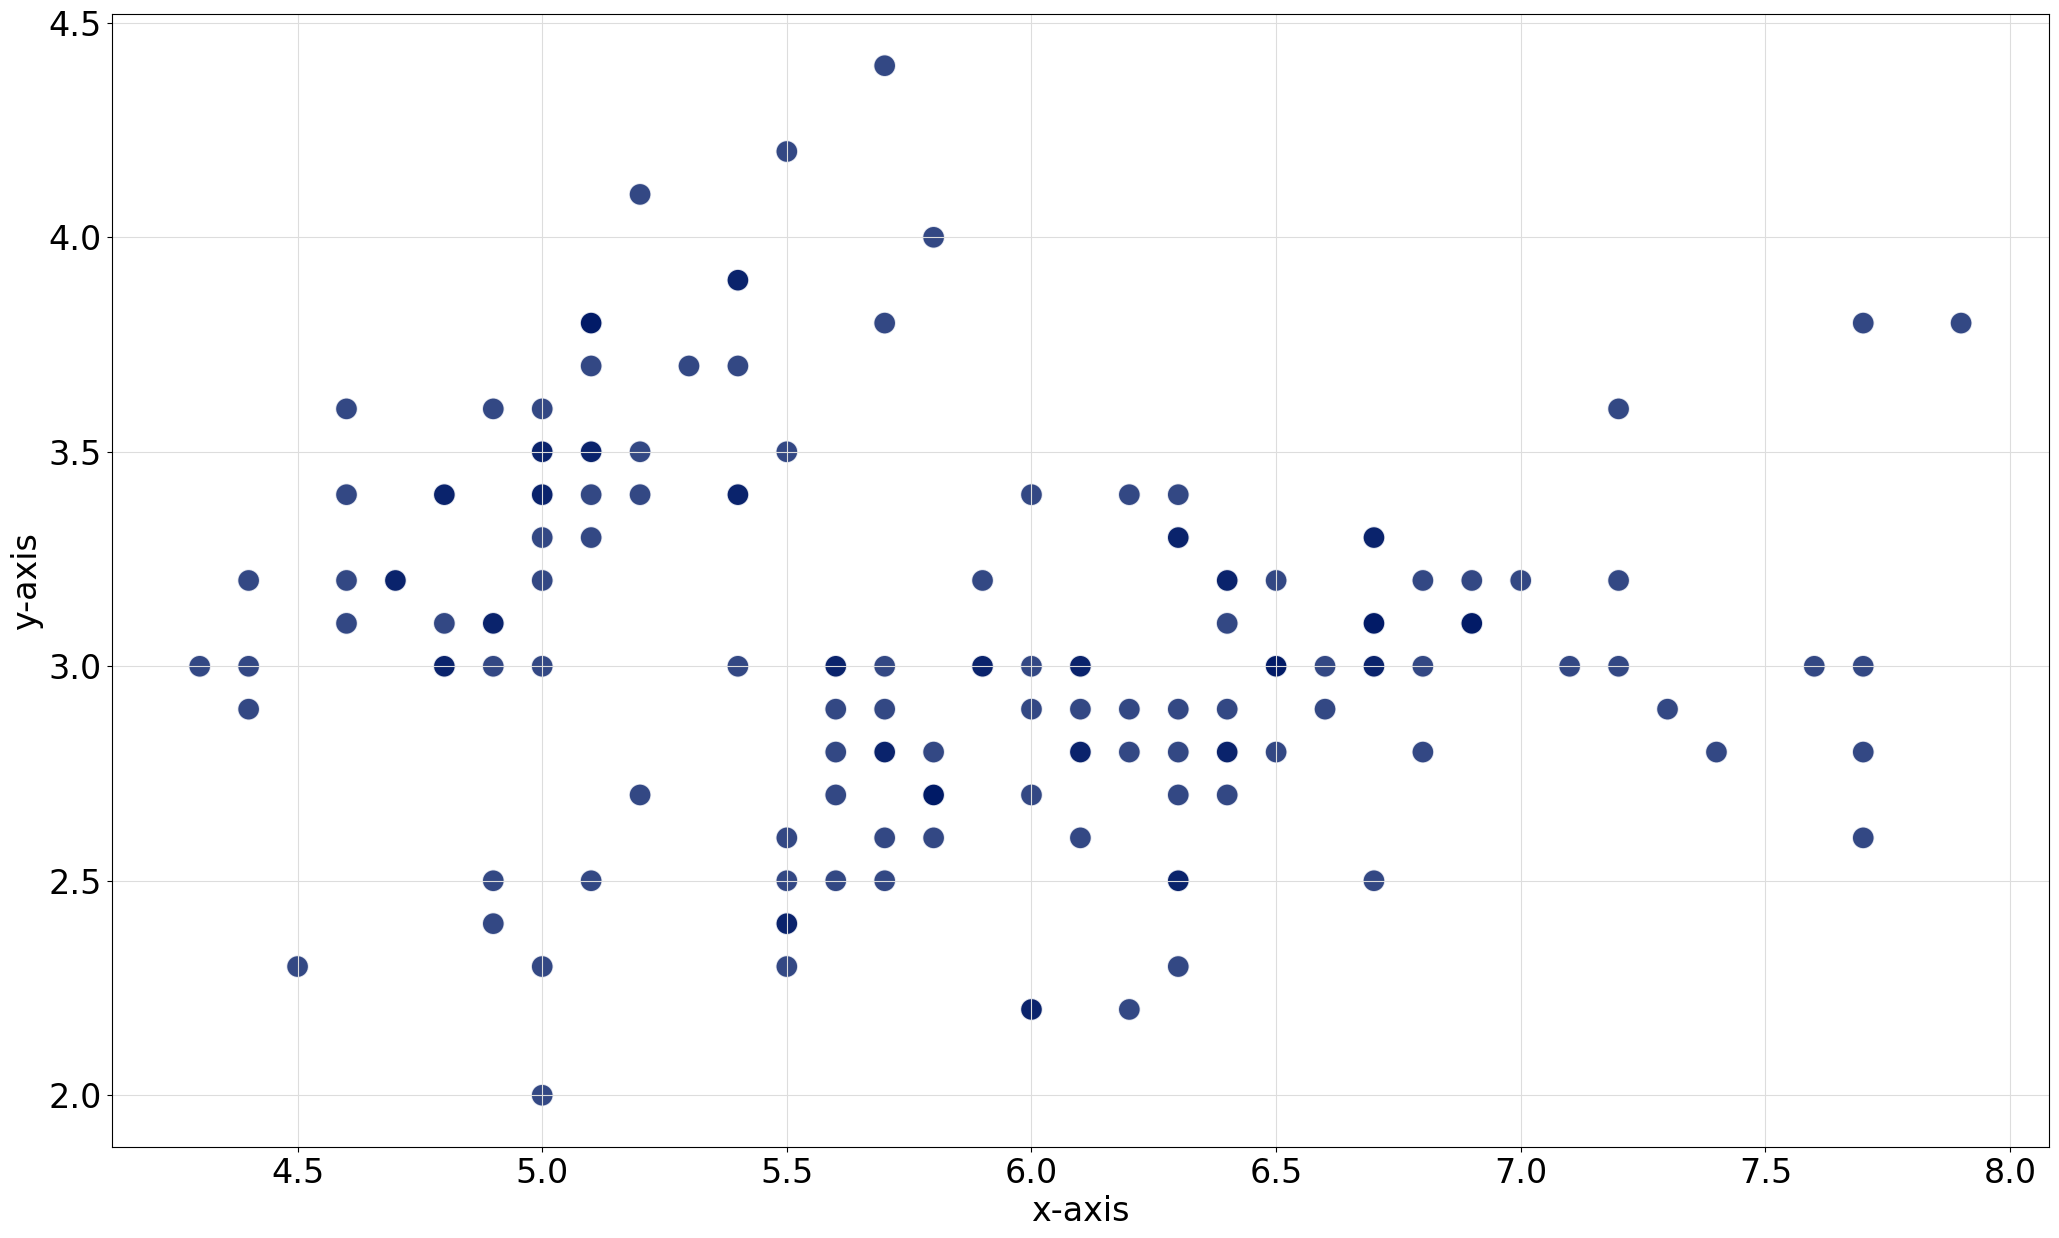
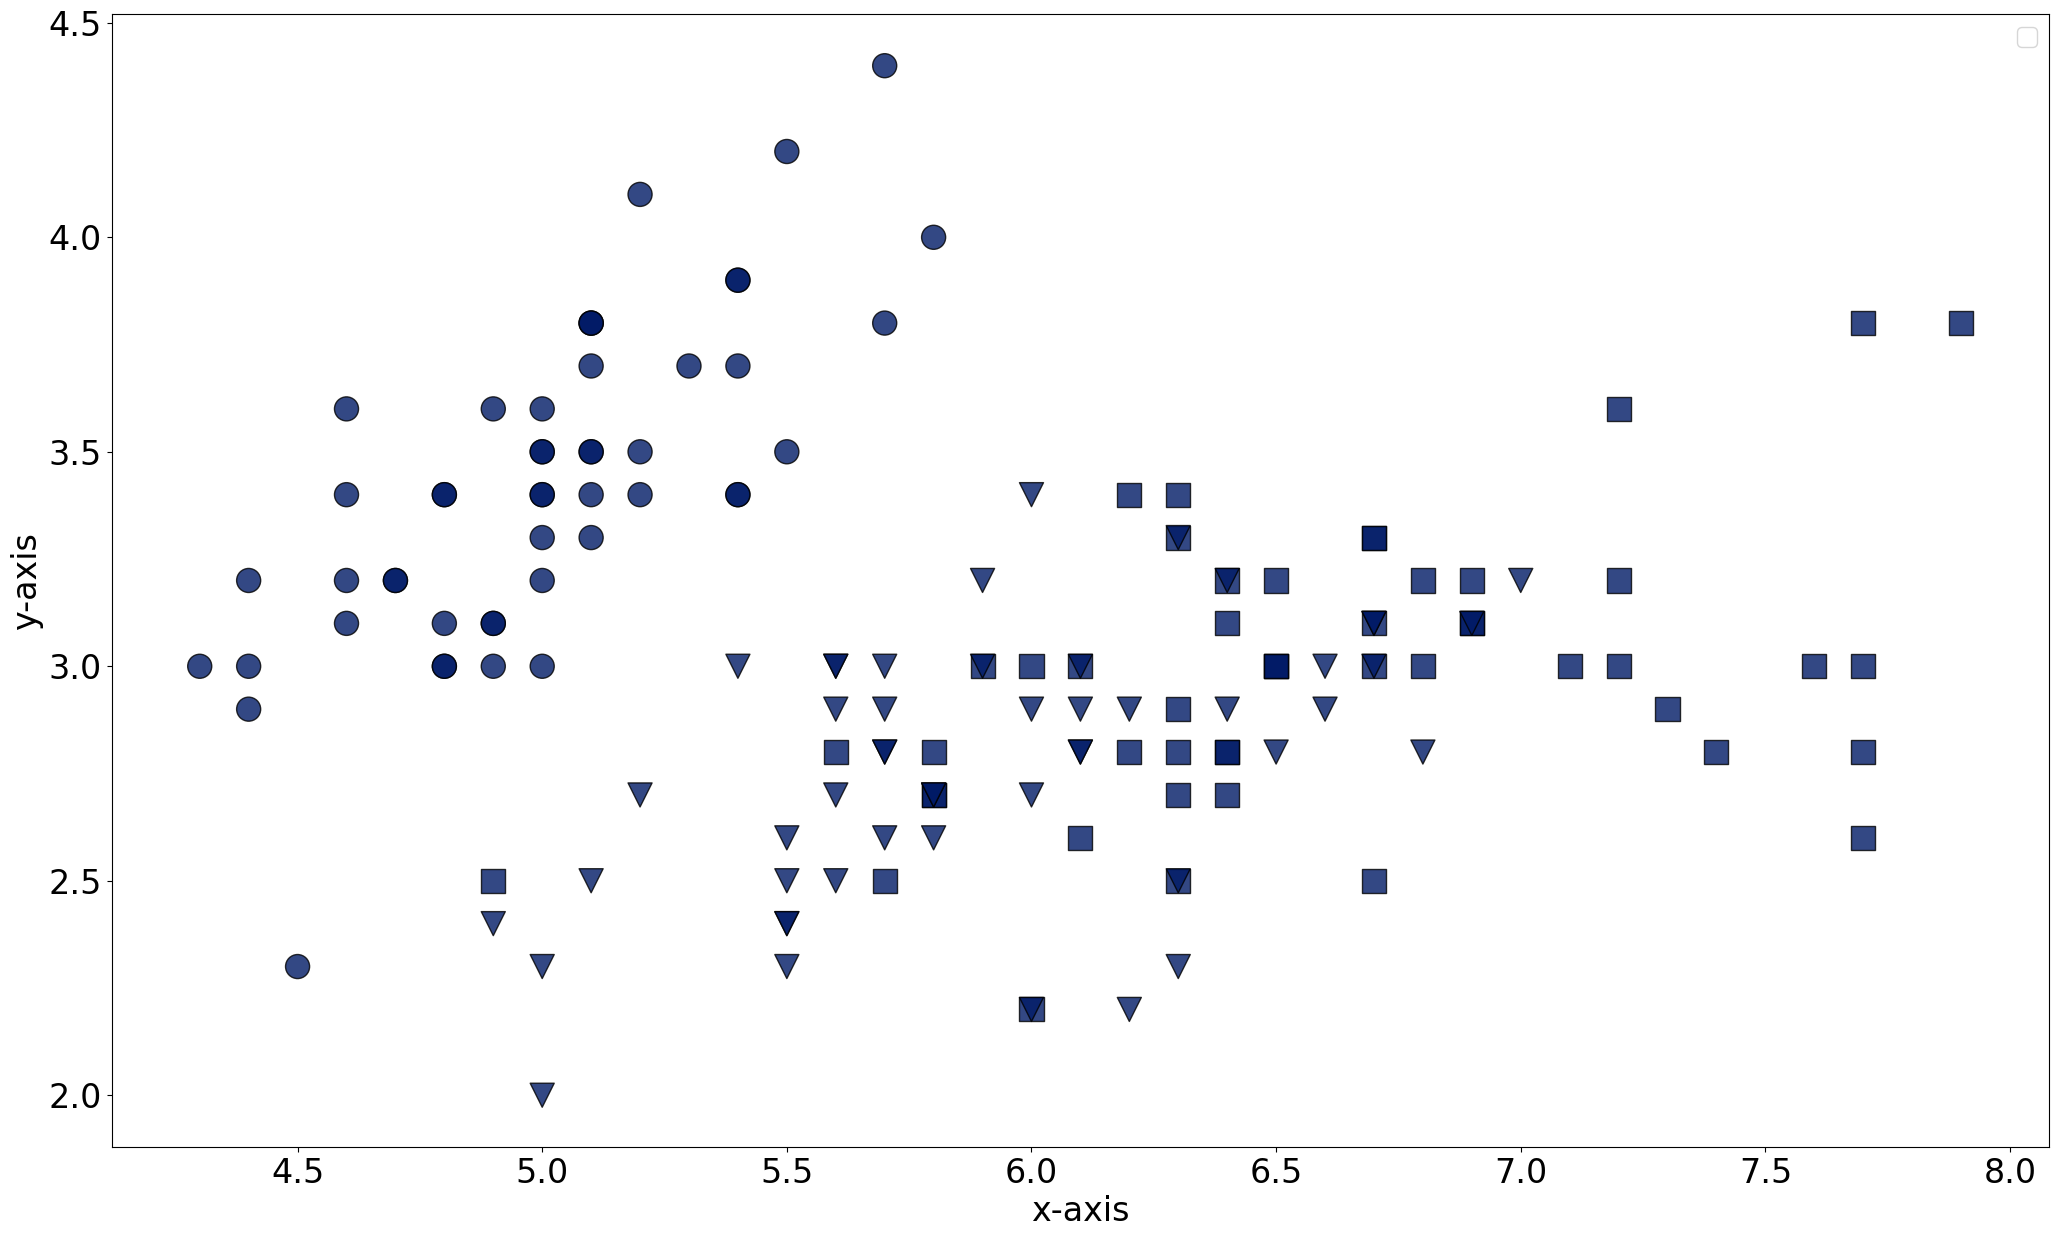
udpate figs

diff --git a/scatterd/scatterd.py b/scatterd/scatterd.py
@@ -34,7 +34,7 @@ def scatterd(x,
              cmap='tab20c',
              figsize=(25, 15),
              dpi=100,
-             legend=True,
+             legend=None,
              jitter=None,
              xlabel='x-axis', ylabel='y-axis', title='', fontsize=24, fontcolor=None, grid=False, fontweight='normal',
              args_density = {'cmap': 'Reds', 'fill': True, 'thresh': 0.05, 'bw_adjust': .6, 'alpha': 0.66, 'legend': False, 'cbar': False},
@@ -95,8 +95,14 @@ def scatterd(x,
         '#dddddd' : Specify color with hex
     norm : Bool, optional
         Normalize datapoints. The default is False.
-    legend : bool, (default: False)
-        Plot the legend.
+    legend : int, default: 0
+        None: Set automatically based number of labels.
+        False : Disable.
+        True : Best position.
+        1 : 'upper right'
+        2 : 'upper left'
+        3 : 'lower left'
+        4 : 'lower right'
     jitter : float, default: None
         Add jitter to data points as random normal data. Values of 0.01 is usually good for one-hot data seperation.
             * None or False: Do not add jitter
@@ -214,11 +220,13 @@ def scatterd(x,
                 if z is None:
                     ax.scatter(X[Iloc2, 0], X[Iloc2, 1], c=c_rgb[Iloc2], s=s[Iloc2], edgecolor=edgecolor, marker=m, label=label, alpha=alpha[Iloc2], zorder=zorder)
                 else:
-                    # Let op: alpha[Iloc2] geeft een foutmelding
-                    ax.scatter(X[Iloc2, 0], X[Iloc2, 1], X[Iloc2, 2], s=s[Iloc2], c=c_rgb[Iloc2], edgecolor=edgecolor, marker=m, label=label, alpha=0.8)
+                    # Note: alpha[Iloc2] throws an error
+                    ax.scatter(X[Iloc2, 0], X[Iloc2, 1], X[Iloc2, 2], s=s[Iloc2], c=c_rgb[Iloc2], edgecolor=edgecolor, marker=m, label=label, alpha=0.8, zorder=zorder)
 
     # Show legend (only if labels are present)
-    if legend and labels is not None: ax.legend()
+    if isinstance(legend, bool): legend = 0 if legend else -1
+    if legend is None: legend = -1 if len(np.unique(labels))>20 else 0
+    if legend>=0: ax.legend(loc=legend, fontsize=fontsize-6)
 
     # Return
     return fig, ax

diff --git a/scatterd/examples.py b/scatterd/examples.py
@@ -13,8 +13,9 @@ fig, ax = scatterd(df['tsneX'],
                    gradient='#FFFFFF',
                    edgecolor='#FFFFFF',
                    grid=True,
-                   fontweight='bold',
+                   fontweight='normal',
                    fontsize=26,
+                   legend=2,
                    )
 
 # %%
